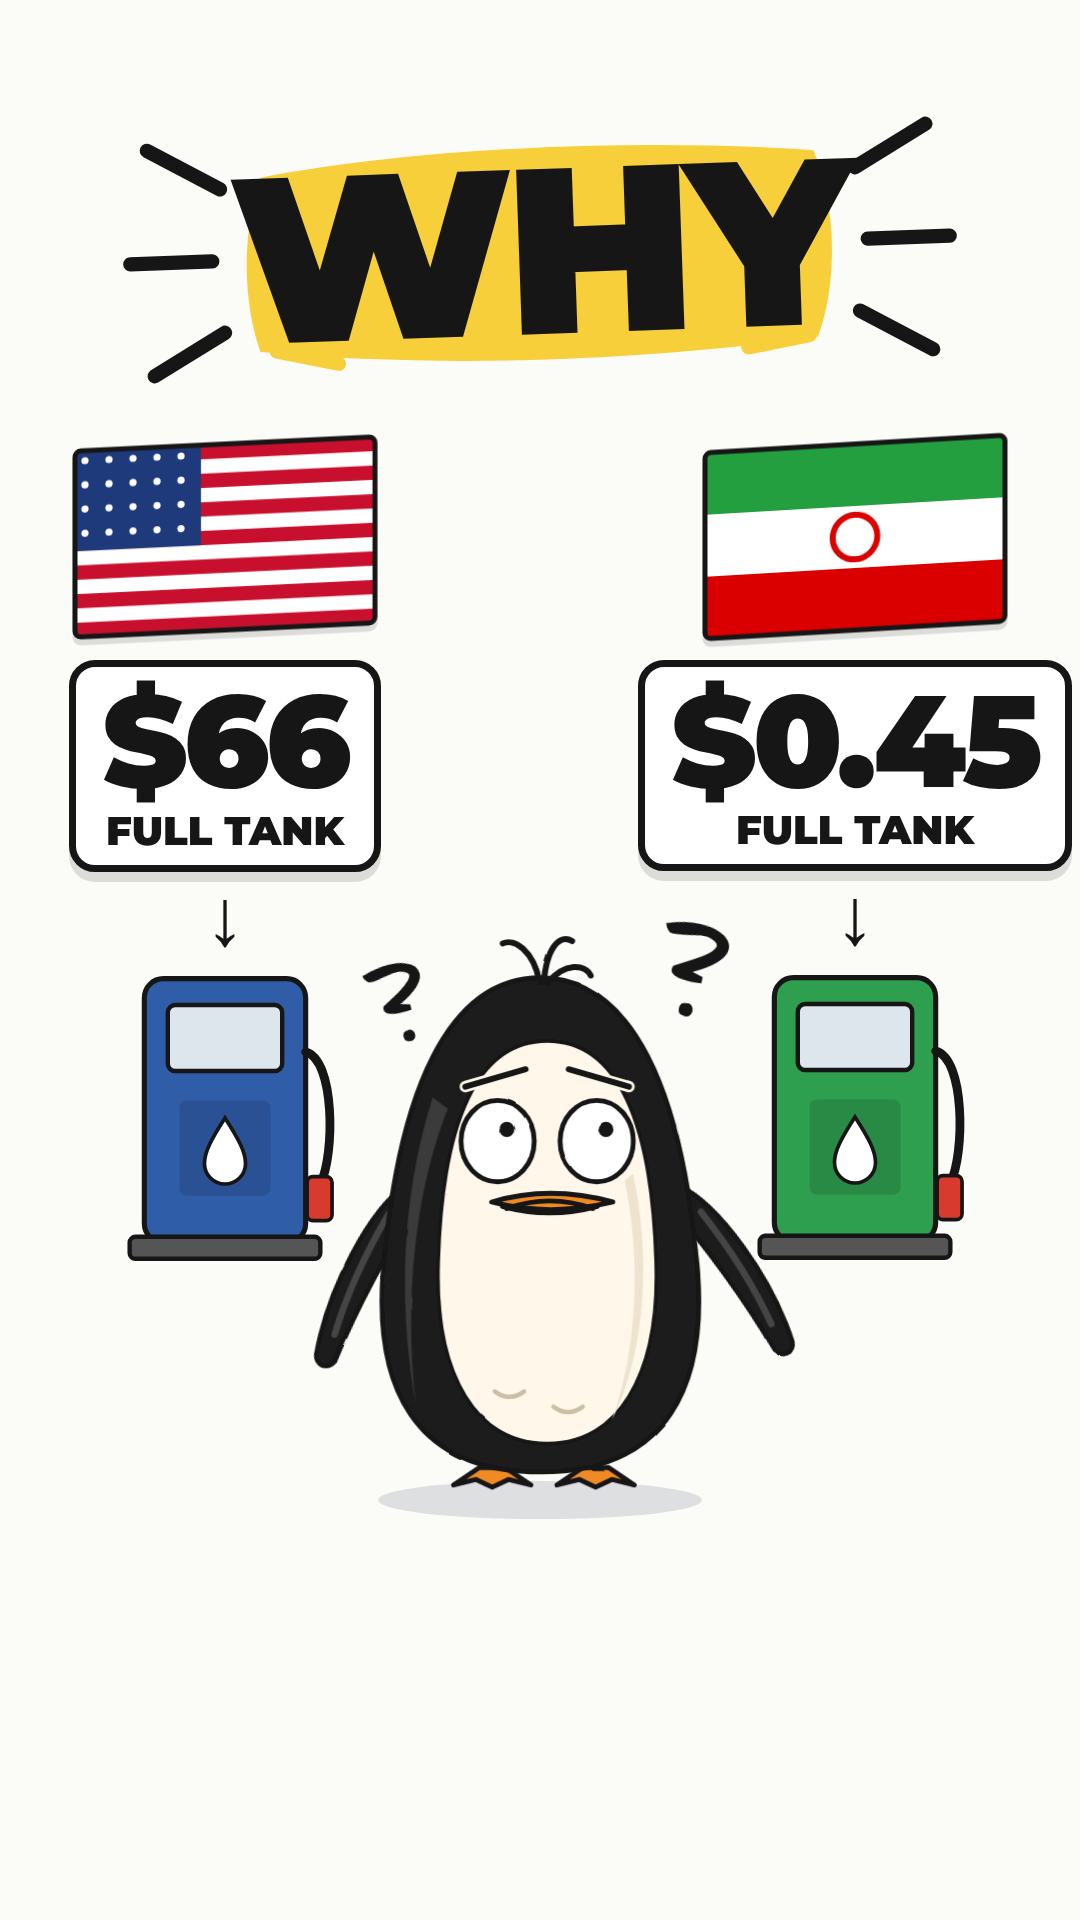
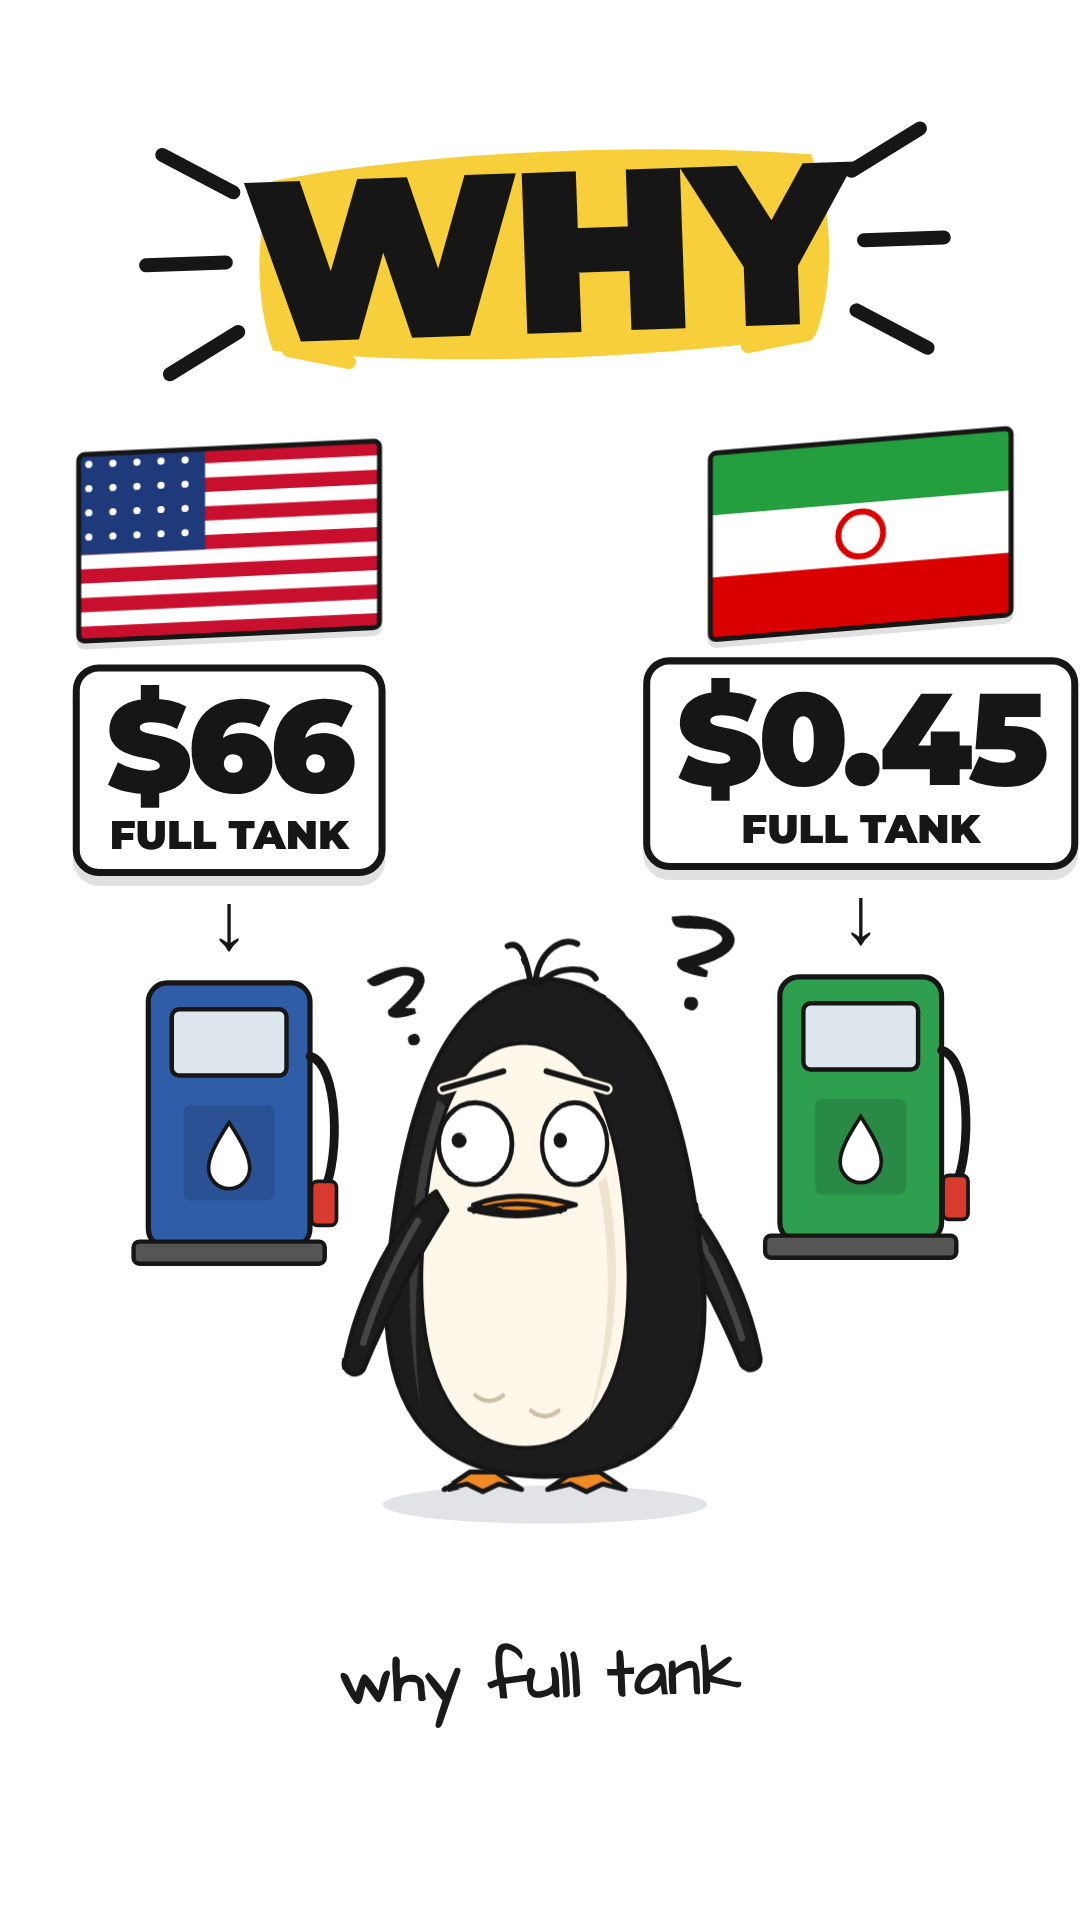
WhyHook: pure white background (user)
Claude-Session: https://claude.ai/code/session_01TpxkbLAeDEzMwkLhjRXMiW

diff --git a/studio/src/penguin/whyHook.tsx b/studio/src/penguin/whyHook.tsx
@@ -68,7 +68,7 @@ const Side = ({side, x, y, t, phase}: {side: HookSide; x: number; y: number; t: 
 export const WhyHook = ({left, right, word = 'WHY', dougPose, mark = '?'}: {left: HookSide; right: HookSide; word?: string; dougPose?: PenguinPose; mark?: string}) => {
   const t = useT2();
   const pulse = 1 + 0.025 * Math.sin(t * 5);
-  return <AbsoluteFill style={{background: '#FBFBF8'}}>
+  return <AbsoluteFill style={{background: '#FFFFFF'}}>
     <Fonts /><HandFont />
     {/* WHY on a yellow brush stroke with burst lines */}
     <div style={{position: 'absolute', left: 540 - 380, top: 250 - 150, width: 760, height: 300, transform: `rotate(-2deg) scale(${pulse})`,
